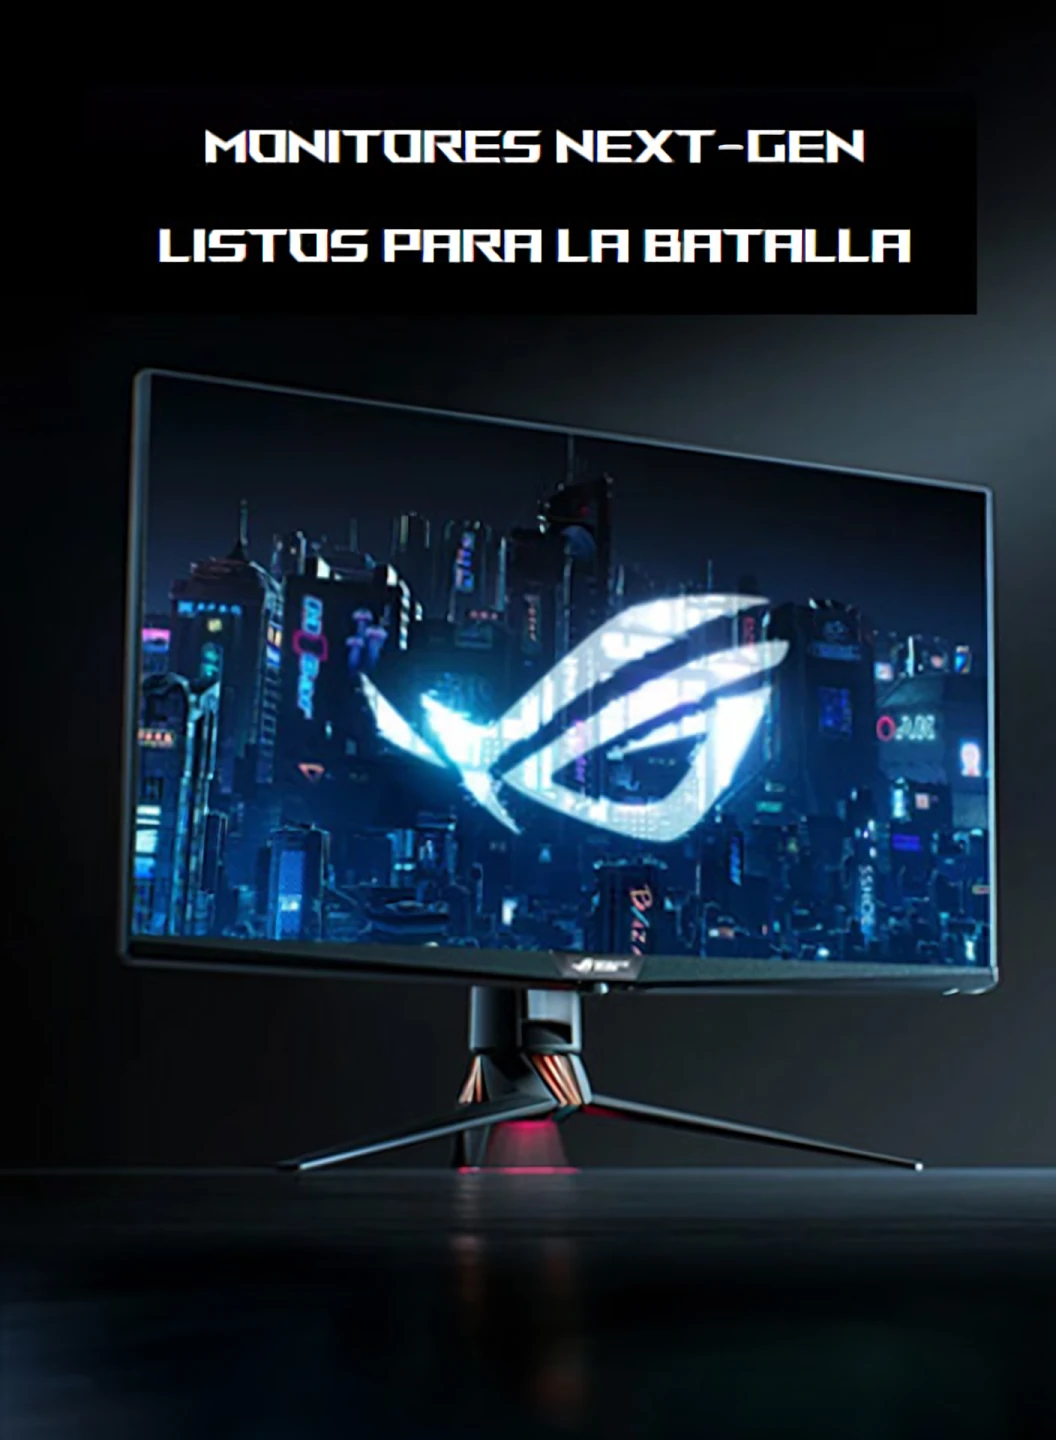
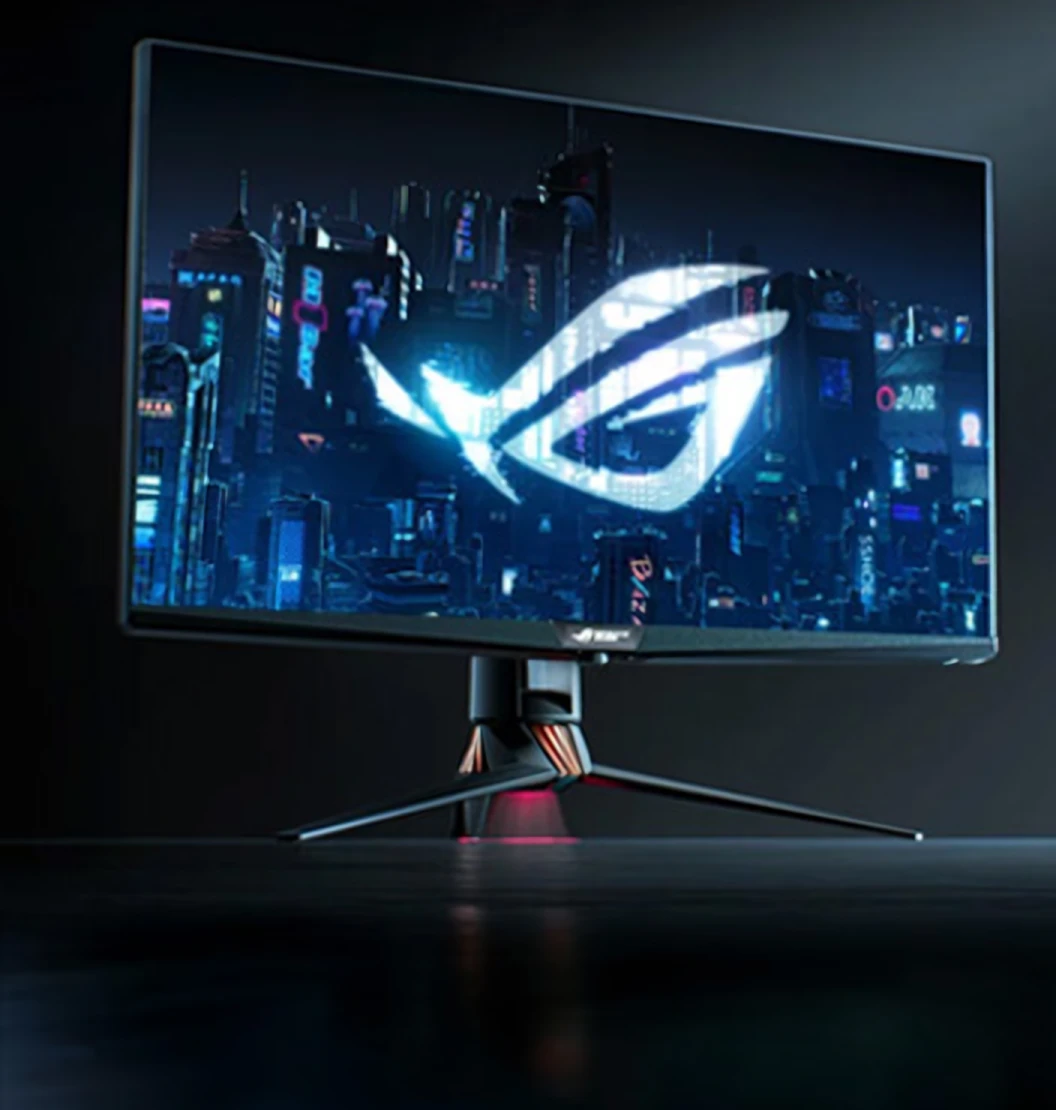
Tarjetas de inicio: imágenes sin texto y contenedores ajustados (#118)

diff --git a/site/index.html b/site/index.html
@@ -69,19 +69,19 @@
     <section class="brand-banners" data-block="tarjetas">
       <article class="brand-card reveal" style="--pos:48% 52%">
         <picture>
-          <img src="assets/img/banner-marca-01.webp" alt="Serie ASUS GeForce RTX 4060: poderosas, frías, silenciosas" width="1056" height="1440" loading="lazy">
+          <img src="assets/img/banner-marca-01.webp" alt="Serie ASUS GeForce RTX 4060: poderosas, frías, silenciosas" width="1056" height="1110" loading="lazy">
         </picture>
         <a href="#productos" data-filter="Placas de video" class="btn btn-banner">Placas de video</a>
       </article>
       <article class="brand-card reveal" style="--d:.12s;--pos:50% 48%">
         <picture>
-          <img src="assets/img/banner-marca-02.webp" alt="Monitores next-gen, listos para la batalla" width="1056" height="1440" loading="lazy">
+          <img src="assets/img/banner-marca-02.webp" alt="Monitores next-gen, listos para la batalla" width="1056" height="1110" loading="lazy">
         </picture>
         <a href="#productos" data-filter="Monitores" class="btn btn-banner">Monitores</a>
       </article>
       <article class="brand-card reveal" style="--d:.24s;--pos:54% 60%">
         <picture>
-          <img src="assets/img/banner-marca-03.webp" alt="BIOS listo para procesadores AMD Ryzen serie 8000" width="1056" height="1440" loading="lazy">
+          <img src="assets/img/banner-marca-03.webp" alt="BIOS listo para procesadores AMD Ryzen serie 8000" width="1056" height="1110" loading="lazy">
         </picture>
         <a href="#productos" data-filter="Motherboards" class="btn btn-banner">Motherboards</a>
       </article>

diff --git a/site/assets/js/app.js b/site/assets/js/app.js
@@ -740,7 +740,7 @@
     },
     tarjetas(el, d) {
       if (!d.cards) return;
-      el.innerHTML = d.cards.map((c, i) => `<article class="brand-card reveal" style="--d:${i * 0.12}s${c.pos ? `;--pos:${esc(c.pos)}` : ""}"><picture>${c.img_mobile ? `<source media="(max-width: 767px)" srcset="${src(c.img_mobile)}">` : ""}<img src="${src(c.img)}" alt="${esc(c.alt || "")}" width="1056" height="1440" loading="lazy"></picture>${c.text ? `<a ${linkOf(c) || 'href="#productos"'} class="btn btn-banner">${esc(c.text)}</a>` : ""}</article>`).join("");
+      el.innerHTML = d.cards.map((c, i) => `<article class="brand-card reveal" style="--d:${i * 0.12}s${c.pos ? `;--pos:${esc(c.pos)}` : ""}"><picture>${c.img_mobile ? `<source media="(max-width: 767px)" srcset="${src(c.img_mobile)}">` : ""}<img src="${src(c.img)}" alt="${esc(c.alt || "")}" width="1056" height="1110" loading="lazy"></picture>${c.text ? `<a ${linkOf(c) || 'href="#productos"'} class="btn btn-banner">${esc(c.text)}</a>` : ""}</article>`).join("");
     },
     catalogo(el, d) {
       const h = el.querySelector(".section-head"); if (!h) return;

diff --git a/site/assets/css/styles.css b/site/assets/css/styles.css
@@ -160,7 +160,7 @@ button { font: inherit; }
 
 /* ---------- Banners de marca: be97f60 (padding 60 0) / 9986b28 (min-h 500, margin-top 40) ---------- */
 .brand-banners { display: flex; gap: 0; padding: 60px 10px; max-width: 1220px; margin: 0 auto; }
-.brand-card { position: relative; flex: 1; min-height: 0; aspect-ratio: 352 / 480; margin: 10px; padding: 40px; border-radius: 20px; overflow: hidden;
+.brand-card { position: relative; flex: 1; min-height: 0; aspect-ratio: 352 / 370; margin: 10px; padding: 40px; border-radius: 20px; overflow: hidden;
   display: flex; flex-direction: column; justify-content: flex-end; align-items: center; isolation: isolate; }
 .brand-card picture, .brand-card img { position: absolute; inset: 0; width: 100%; height: 100%; object-fit: cover; object-position: var(--pos, 50% 50%); z-index: -1; }
 /* --pos (en cada tarjeta del index) = centro del producto dentro de la foto: queda como eje en cualquier recorte */
